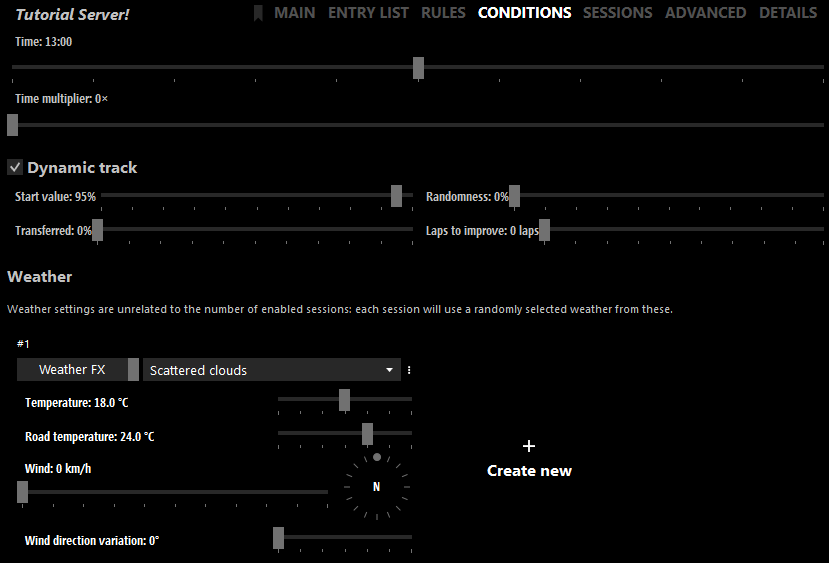
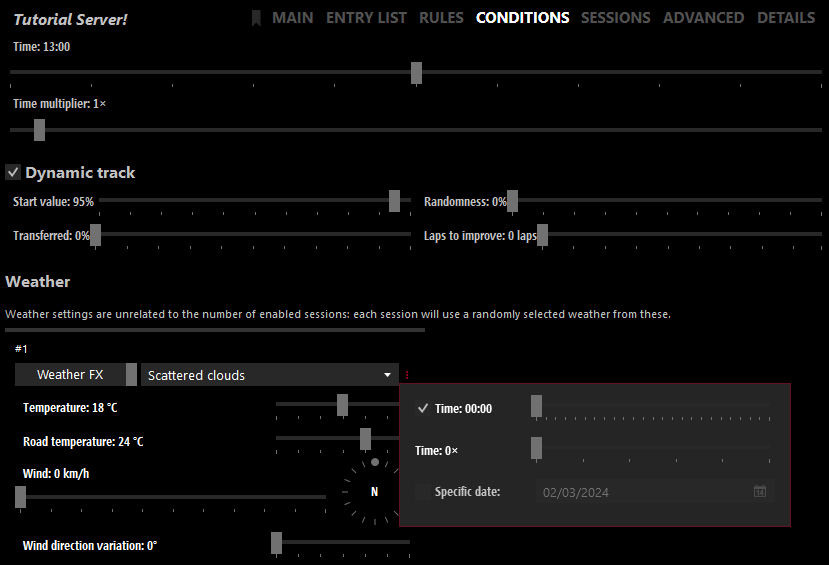
Port Forwarding & WFX Time/Mult/Date changes as requested (#25)
* TBG: new port forwarding error message

* TBG: changes for wfx time/mult/date support

* TBG: added register to lobby checkbox

* TBG: changed time section header to include date

diff --git a/docs/thebeginnersguide.md b/docs/thebeginnersguide.md
@@ -80,7 +80,8 @@ These can be adjusted at any point, although doing so before packing the server 
 
 4. Move the `Capacity` slider to 11.
 5. Click on the `Admin password` field and enter a password that is at least 8 characters long.
-6. Click on the `ENTRY LIST` tab and click on the (+) to add cars to the list.  
+6. Enable the `Make server public (show on lobby)` checkbox.
+7. Click on the `ENTRY LIST` tab and click on the (+) to add cars to the list.  
    Add the following cars in this order:
 
    - 1 RUF CTR Yellowbird
@@ -98,7 +99,7 @@ These can be adjusted at any point, although doing so before packing the server 
    If you go beyond the limit, which is based on the layout of the track you selected, the game will crash when you try to join the server.
    :::
 
-7. Click on the `RULES` tab and configure the page how you see fit.
+8. Click on the `RULES` tab and configure the page how you see fit.
 
    Some recommendations:
 
@@ -109,19 +110,18 @@ These can be adjusted at any point, although doing so before packing the server 
    
    ![](./assets/guide/cmconfig5.png)
 
-8. Click on the `CONDITIONS` tab and configure the page how you see fit.  
-   Don't worry too much about the `Time` slider yet, we will get to that later on.
-
-   :::caution
-   Do not use the WeatherFX Time, Time Multiplier or Date.  
-   They do not work with AssettoServer and could cause problems.
-   :::
+9. Click on the `CONDITIONS` tab and configure the page how you see fit.  
+   Leave the big `Time` and `Time Multiplier` sliders as they are.
+   - In the `Weather` section, flip the switch to `WeatherFX` and select the weather you want.  
+      If the weather you want is not in the list, read [how to change the weather](#changing-weather) after the extracting step.
+   - Click on the 3 little dots next to the weather drop down.
+   - Enable and set the Time/Date/Time multiplier that you want.
 
    We will be using the following settings:
    
    ![](./assets/guide/cmconfig6.png)
 
-9. Click on the `SESSIONS` tab and configure it as follows:
+10. Click on the `SESSIONS` tab and configure it as follows:
 
    - Check `Pickup mode` and `Loop mode` while leaving `Locked entry list in pickup mode` unchecked.
    - Uncheck `Booking`, `Qualifying` and `Race`.
@@ -131,7 +131,7 @@ These can be adjusted at any point, although doing so before packing the server 
 
    ![](./assets/guide/cmconfig7.png)
 
-10. At the bottom of the preset, click on `Save`.  
+11. At the bottom of the preset, click on `Save`.  
     
     ![](./assets/guide/cmconfig8.png)
 
@@ -165,13 +165,21 @@ If you did everything correctly you should see something along the lines of this
 
 :::caution
   You might also have the following error message inside of your log:  
-  `Error during Kunos lobby registation: ERROR, INVALID SERVER, CHECK YOUR PORT FORWARDING SETTINGS`  
+   ```
+   Your ports are not forwarded correctly. The server will continue to run, but players outside of your network won't be able to join.
+   To fix this, you'll need to go into your router settings and create Port Forwards for these ports:
+   Port 9600 UDP
+   Port 9600 TCP
+   Port 8081 TCP
+   Local IP: XXX.XXX.XXX.XXX
+   Router Page: http://XXX.XXX.XXX.X/
+   Since Instructions are different for each router, search in Google for "how to port forward" with the name of your router and/or ISP.
+   ```
 
-  This means that you need to forward the ports that AssettoServer uses inside your router and possibly make a  exception for the `AssettoServer.exe` inside your firewall.  
-  By default the ports you need to forward are TCP+UDP `9600` and TCP `8081`.  
+  This means that you need to forward the ports that AssettoServer uses inside your router and possibly make a exception for the `AssettoServer.exe` inside your firewall.  
 
-  Because there are an infinite amount of routers / ISP combinations we will not explain how to do this here.  
-  Refer to the user manual of your router or google for "how to port forward" with the name of your router and ISP.
+  Because Instructions are different for each router / ISP, we will not explain how to do this here.  
+  Refer to the user manual of your router or search in Google for "how to port forward" with the name of your router and/or ISP.
 :::
 
 1. Close the console and navigate to the `cfg` folder inside the server's main folder.
@@ -183,7 +191,7 @@ If you did everything correctly you should see something along the lines of this
    ```
 
 3. Save and close the file, then open the `entry_list.ini`.  
-   For the first car, which should be the RUF that we want to drive, we will add a line below `RESTRICTOR=0`.
+   For the first car, which will be the RUF that we want to drive, we will add a line below `RESTRICTOR=0`.
 
    ```ini title="entry_list.ini"
    [CAR_0]
@@ -220,12 +228,12 @@ If you did everything correctly you should see something along the lines of this
 
 6. Now go back into the main folder of the server and launch `AssettoServer.exe` again.  
    Then open Content Manager and go to the `Drive` tab, select the `Online` tab and then the `LAN` tab.  
-   The server should now appear in the server list. It may take a few moments, so you might need to refresh the list a few times.
+   The server will now appear in the server list. It may take a few moments, so you might need to refresh the list a few times.
    
    ![](./assets/guide/asconfig3.png)
 
 7. Select the RUF, click `Join` and drive out of the pits to start spawning AI traffic.
-8. Other people should also be able to join the server by searching for it or via the invite link that you can copy from the console.
+8. Other people will also be able to join the server by searching for it or via the invite link that you can copy from the console.
    
    :::caution
    Do not click the Invite button to copy the invite link, it will copy your local IP which is useless to people outside of your local network. Use the link that is generated in the console instead.
@@ -233,23 +241,60 @@ If you did everything correctly you should see something along the lines of this
 
 ## Advanced Server Configuration {#advanced-server-config}
 
-### Time of Day {#changing-time}
+### Time and Date {#changing-time-date}
 
-Earlier we skipped over the `Time` slider inside of Content Manager because it only allows us to set the time inside a range of 08:00 to 18:00 (8AM to 6PM) and it would reset to this range regardless of what we do.  
-So what do we do if we wanted to have a Night only server?
+We selected time and date settings during the preconfiguration, but what if we wanted to change the time/time multiplier/date without having to pack and extract again?  
 
 1. Navigate to the `cfg` folder of the server and open the `server_cfg.ini` with a text editor of your choice.
-2. Under `[SERVER]` find the parameter `SUN_ANGLE` and set it to `-180`, in most cases this should result in the time being somewhere in the night.
-3. Since we already set the time multiplier to 0 we don't need to change it. If you wanted to, this would be the `TIME_OF_DAY_MULT` parameter. `1` would result in time progressing as fast as in real life, `2` would be twice as fast as in real life and so on.
-4. Save and restart the server to apply the changes.
-   
-   :::note
-   If you have a specific time you want the server to be on, you might need to use trial and error to get the `SUN_ANGLE` just right.
-   :::
+2. Find the `GRAPHICS=` parameter in the `[WEATHER_0]` section, it should look something like this:
+
+   ```ini title="server_cfg.ini"
+   [WEATHER_0]
+   GRAPHICS=sol_03_scattered_clouds_type=17_time=0_mult=0
+   BASE_TEMPERATURE_AMBIENT=18
+   BASE_TEMPERATURE_ROAD=6
+   VARIATION_AMBIENT=0
+   VARIATION_ROAD=0
+   WIND_BASE_SPEED_MIN=0
+   WIND_BASE_SPEED_MAX=0
+   WIND_BASE_DIRECTION=0
+   WIND_VARIATION_DIRECTION=0
+   ```
+   - To change the Time, change the number after `_time=` to the time you want in seconds from 00:00.  
+      For example to set the time to `18:00` you would do `_time=64800`.
+
+   - To change the Time Multiplier, change the number after `_mult=`.  
+      `_mult=1` would result in time progressing as fast as in real life, `_mult=2` would be twice as fast etc.  
+
+   - To change the Date you'll need to do two things:
+      - Change the number after `_start=` to the date you want in Epoch time.  
+         Use a site like [epochconverter](https://www.epochconverter.com/) to get the Epoch time that you want.  
+         For example: `_start=1719700000` would result in the date being June 30th, 2024.
+      - Open `extra_cfg.yml` and set `LockServerDate` to `false`  
+
+         ```yml title="extra_cfg.yml"
+            # Lock server date to real date. This stops server time "running away" when using a high time multiplier, so that in-game sunrise/sunset times are based on the current date
+            LockServerDate: false
+         ```
+3. After making these adjustments it should look something like this:
+
+   ```ini title="server_cfg.ini"
+   [WEATHER_0]
+   GRAPHICS=sol_03_scattered_clouds_type=17_time=64800_mult=0_start=1719700000
+   BASE_TEMPERATURE_AMBIENT=18
+   BASE_TEMPERATURE_ROAD=6
+   VARIATION_AMBIENT=0
+   VARIATION_ROAD=0
+   WIND_BASE_SPEED_MIN=0
+   WIND_BASE_SPEED_MAX=0
+   WIND_BASE_DIRECTION=0
+   WIND_VARIATION_DIRECTION=0
+   ```
+   With these settings the server will start at 18:00 on the 30 June 2024 and the time will not progress.
 
 ### Weather {#changing-weather}
 
-We selected a weather during the preconfiguration, but what if we want to change the weather without having to pack and re-extract?  
+We selected a weather during the preconfiguration, but what if we want to change the weather without having to pack and extract again?  
 What if weathers like Heavy Rain are missing from the WeatherFX selection dropdown?
 
 :::caution if you want to select a weather with rain
@@ -263,7 +308,7 @@ Purchase Custom Shaders Patch previews on [x4fabs Patreon](https://www.patreon.c
 
    ```ini title="server_cfg.ini"
    [WEATHER_0]
-   GRAPHICS=sol_03_scattered_clouds_type=17
+   GRAPHICS=sol_03_scattered_clouds_type=17_time=0_mult=0
    BASE_TEMPERATURE_AMBIENT=18
    BASE_TEMPERATURE_ROAD=6
    VARIATION_AMBIENT=0
@@ -275,12 +320,12 @@ Purchase Custom Shaders Patch previews on [x4fabs Patreon](https://www.patreon.c
    ```
 
 3. Under `[WEATHER_0]` find the parameter `GRAPHICS=` and change the WeatherFX ID after `_type=` to the ID of the weather you want.  
-   [Here](./misc/wfx-types.md) you can find a list of available WeatherFX type IDs.  
+   If you're unsure which ID to use, please check the [list of available WeatherFX type IDs](./misc/wfx-types.md).  
    For example, to change the starting weather to be `Heavy Rain` instead of `Scattered Clouds`, it would look like this:
 
    ```ini title="server_cfg.ini"
    [WEATHER_0]
-   GRAPHICS=sol_03_scattered_clouds_type=8
+   GRAPHICS=sol_03_scattered_clouds_type=8_time=0_mult=0
    ...
    ```
 
@@ -366,7 +411,7 @@ For teleportation and color changing there are additional steps for us.
 
    You can find the teleports used on the Official Shutoko Revival Projects servers in this [FAQ Section](./faq.md#srp-teleports)
 
-4. Save and close the file and restart the server, you should now have traffic that is randomly colored and be able to teleport / change your car color via the lightbulb in the chat app.  
+4. Save and close the file and restart the server, you're able to teleport / change your car color via the lightbulb in the chat app and will have traffic that is randomly colored.  
    
    ![](./assets/guide/cspextras1.png)
 
@@ -513,7 +558,7 @@ When editing plugin configurations, be careful to keep the format from the docum
    ```
 5. Save and close the file and restart the server.  
 
-If you did everything correctly you should see two new lines at the beginning of the server log:  
+If you did everything correctly you will see two new lines at the beginning of the server log:  
 
 ![](./assets/guide/asplugins1.png)  
 
@@ -552,7 +597,7 @@ Now, I want you to look at the log in the image below and try to read the log un
 ![](./assets/guide/troubleshooting1.png)
 
 At first this might seem like a lot of scary text and that doesn't really change even if we narrow it down the the `[FTL]` message.  
-But if we actually try and read a few lines we can spot something we should be able to understand:  
+But if we actually try and read a few lines we can spot something we will be able to understand:  
 
 ![](./assets/guide/troubleshooting2.png)
 

diff --git a/docs/faq.md b/docs/faq.md
@@ -100,7 +100,7 @@ LONGITUDE=139.740921
 TIMEZONE=Asia/Tokyo
 ```
 
-Save and close the file, open `extra_cfg.yml` and set `ForceServerParams` to `true`.
+Save and close the file, open `extra_cfg.yml` and set `ForceServerParams` to `true`.  
 Please also adjust `MinimumCSPVersion` if needed.
 ```yaml title="extra_cfg.yml"
 # Override minimum CSP version required to join this server. Leave this empty to not require CSP.
